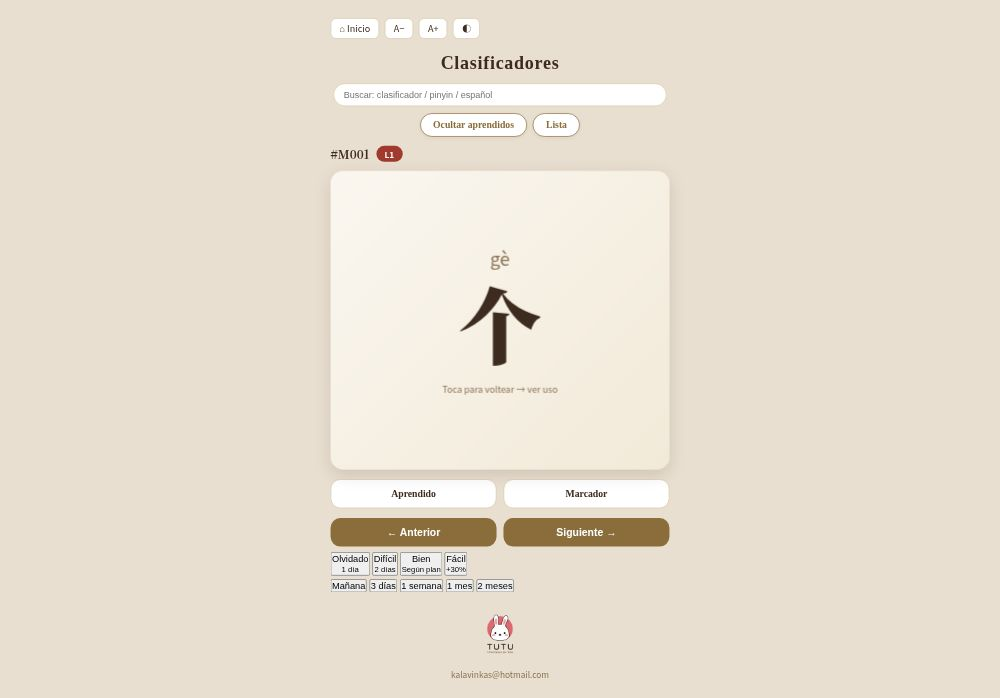
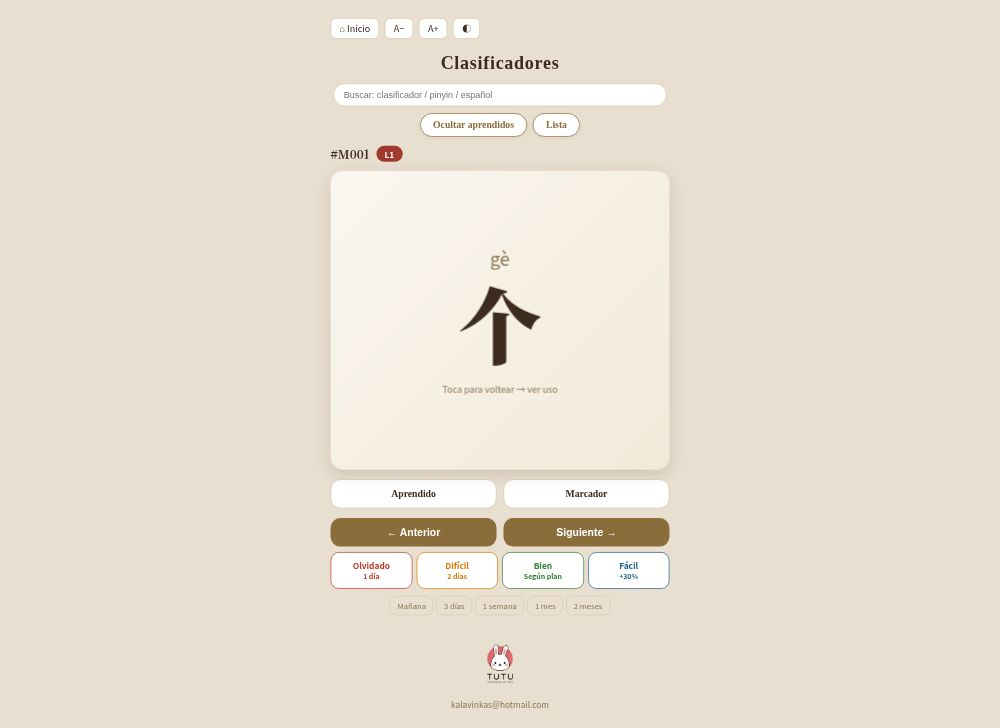
fix(clf): SRS CSS was swallowed inside unclosed .nav-row rule — restored nav-row, SRS styles now apply (flex equal-width rate buttons, colors, toast, back-meta); align clfSrsRow structure with hanzi

diff --git a/original/clf.html b/original/clf.html
@@ -51,7 +51,8 @@
   .mark-row { display:flex; gap:10px; margin-bottom:14px; }
   .mark-row button { flex:1; background:var(--btn-bg); border:1.5px solid var(--line); border-radius:14px; padding:12px 0; font-size:14px; font-weight:700; color:var(--text); cursor:pointer; font-family:"Times New Roman", Times, serif; }
   .mark-row button.on { background:var(--ok-bg); border-color:var(--ok); color:var(--ok); }
-  .nav-row {
+  .nav-row { display:flex; gap:10px; }
+
 
   /* ===== SRS（間隔複習） ===== */
   .srs-row { display:flex; gap:6px; margin-bottom:10px; flex-wrap:wrap; justify-content:center; }
@@ -67,7 +68,7 @@
   .srs-toast { position:fixed; left:50%; bottom:96px; transform:translateX(-50%); background:#3a2e1a; color:#fff8e7; padding:10px 18px; border-radius:24px; font-size:13px; font-weight:600; box-shadow:0 6px 18px rgba(0,0,0,.18); opacity:0; transition:opacity .25s; z-index:99; pointer-events:none; white-space:nowrap; }
   .srs-toast.show { opacity:1; }
   .back-meta { margin-top:10px; font-size:12px; color:var(--mid); font-weight:700; min-height:16px; }
- display:flex; gap:10px; }
+ 
   .nav-row button { flex:1; background:var(--accent); color:#fff; border:none; border-radius:14px; padding:12px 0; font-size:15px; font-weight:700; cursor:pointer; }
   .empty-note { font-size:13px; color:var(--mid); padding:10px 0; }
   .total-panel { position:fixed; inset:0; background:var(--bg); z-index:50; padding:16px; max-width:520px; margin:0 auto; display:none; overflow-y:auto; }
